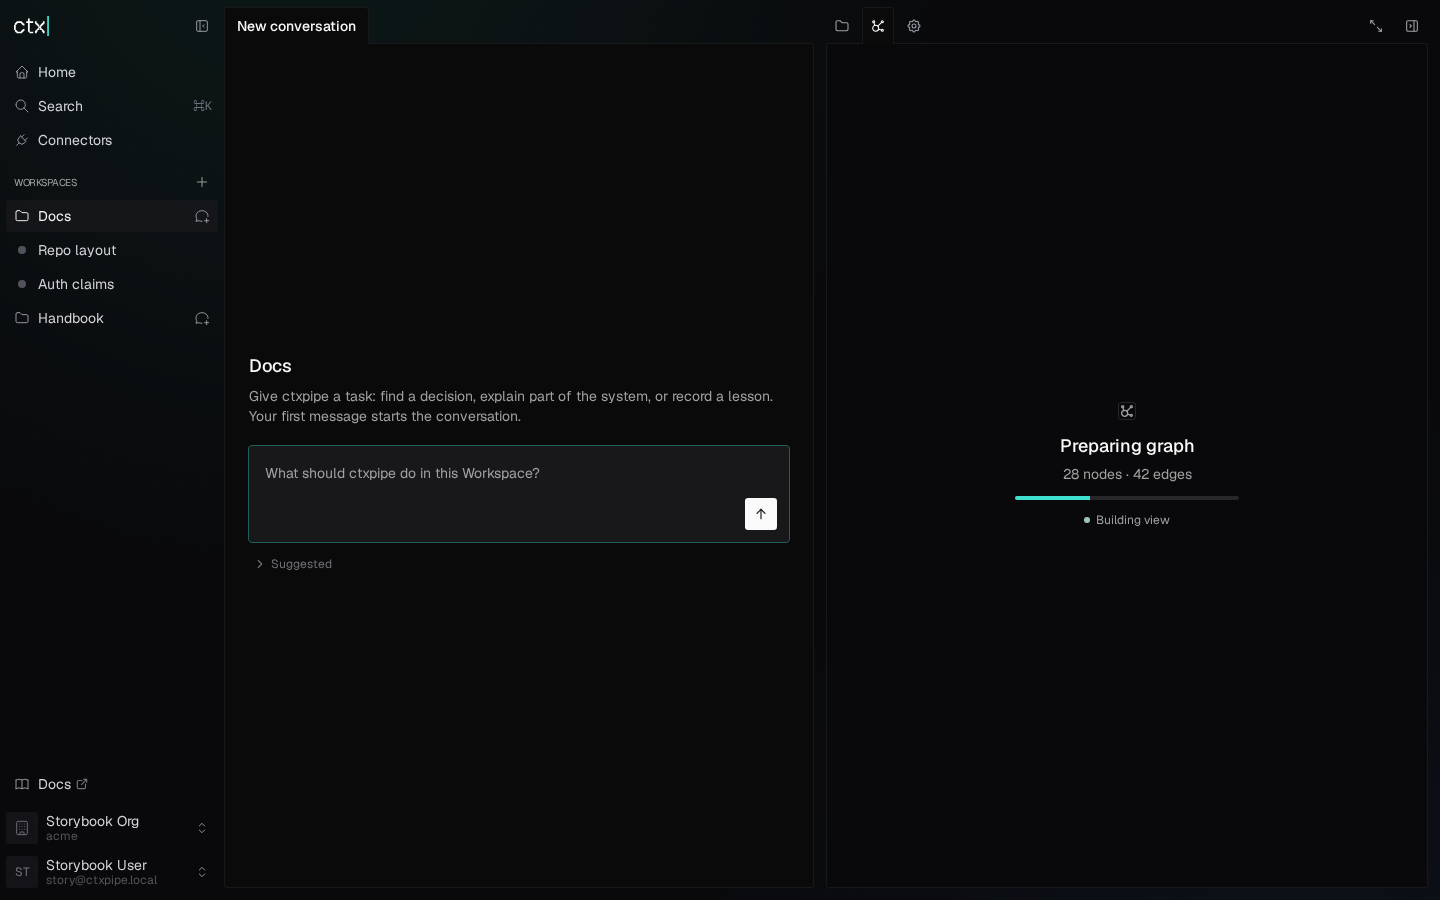
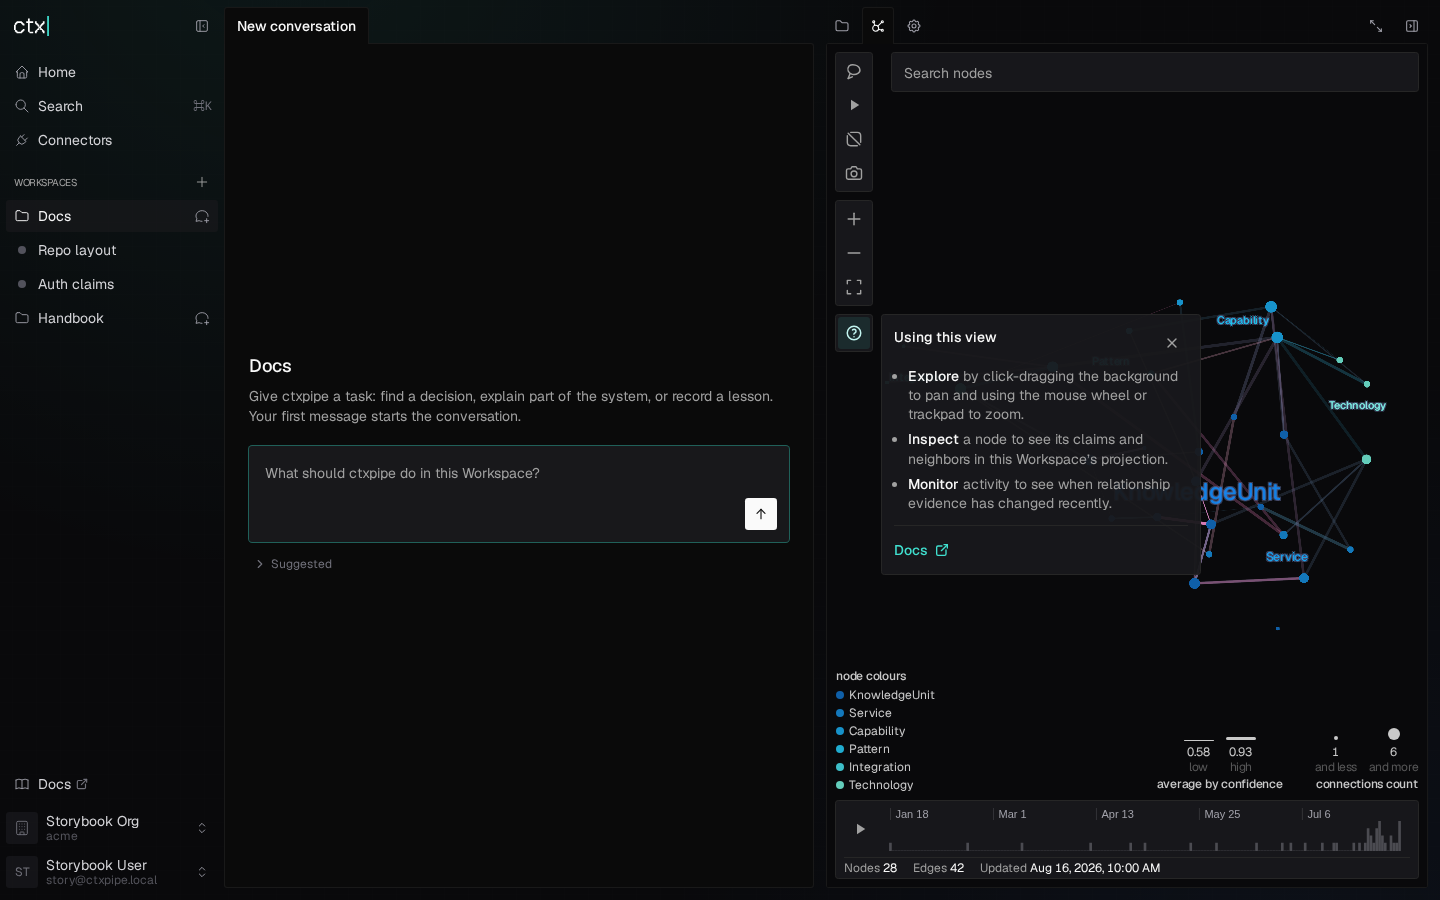
Fix the 2 screenshots that changed in CI: graph pane and failed list
- Workspaces GraphPane had no play, so the shot caught a loading stage
  of the graph that depended on the host speed. It gets the
  reduced-motion tag and waits for the stopped layout, as the pane graph
  story does.
- Home WorkspacesLoadFails: the side nav reads the same workspace list
  and kept its own error after the Retry on Home loaded the list. Its
  error boundary now resets when the list stops failing (a key from the
  query state). The play waits for the side nav list.
- The subscribe functions of useSyncExternalStore keep one identity, so
  React does not subscribe again on each render.

diff --git a/apps/ui/src/features/workspaces/WorkspaceNavList.tsx b/apps/ui/src/features/workspaces/WorkspaceNavList.tsx
@@ -1,10 +1,11 @@
 import { IconPlus, IconRefresh } from "@tabler/icons-react"
 import {
   QueryErrorResetBoundary,
+  useQueryClient,
   useSuspenseQuery,
 } from "@tanstack/react-query"
 import { useLocation } from "@tanstack/react-router"
-import { useRef, useState } from "react"
+import { useCallback, useRef, useState, useSyncExternalStore } from "react"
 
 import type { SideNavLocation } from "@/components/SideNav/sideNavLocation"
 import { SideNavRowSkeleton } from "@/components/SideNav/SideNavRowSkeleton"
@@ -25,13 +26,25 @@ export function WorkspaceNavList(props: {
   currentConversationId?: string
   onSelectNav: (next: SideNavLocation) => void
 }) {
+  const queryClient = useQueryClient()
+  const listQueryKey = workspaceListOptions(props.orgSlug).queryKey
+  const listFailed = () => {
+    const state = queryClient.getQueryState(listQueryKey)
+    return state?.status === "error" && state.data === undefined
+  }
+  const subscribe = useCallback(
+    (onChange: () => void) => queryClient.getQueryCache().subscribe(onChange),
+    [queryClient],
+  )
+  const failed = useSyncExternalStore(subscribe, listFailed, listFailed)
   return (
     <QueryErrorResetBoundary>
       {({ reset: resetQueries }) => (
-        // The key resets a failed state when the org changes: the layout
-        // stays mounted on an org switch.
+        // The key resets a failed state when the org changes (the layout
+        // stays mounted on an org switch), and when the list loads after a
+        // failure: Home reads the same list and has its own Retry.
         <WorkspaceQueryErrorBoundary
-          key={props.orgSlug}
+          key={`${props.orgSlug}:${failed}`}
           fallback={(_error, resetBoundary) => (
             <NavListError
               expanded={props.expanded}

diff --git a/apps/ui/src/features/workspaces/WorkspaceSurface.stories.tsx b/apps/ui/src/features/workspaces/WorkspaceSurface.stories.tsx
@@ -1545,6 +1545,10 @@ export const FilesPane: Story = {
 }
 
 export const GraphPane: Story = {
+  // With reduced motion the layout runs a fixed number of steps before the
+  // graph shows. The play waits for it: without the wait, the screenshot
+  // showed a loading stage of the graph that depended on the host speed.
+  tags: ["reduced-motion"],
   args: { paneParam: "graph" },
   parameters: {
     storyRoute: workspaceRoute({ pane: "graph" }),
@@ -1553,6 +1557,17 @@ export const GraphPane: Story = {
         page: workspaceShellHandlers(),
       },
     },
+  },
+  play: async ({ canvasElement }) => {
+    const page = within(canvasElement.ownerDocument.body)
+    // The graph shows when its layout has stopped. Then the control to
+    // play the layout again shows.
+    await page.findByRole(
+      "button",
+      { name: "Play layout" },
+      // The layout runs in WebGL, which is slow on a CPU renderer.
+      { timeout: 30_000 },
+    )
   },
 }
 

diff --git a/apps/ui/src/routes/-home.stories.tsx b/apps/ui/src/routes/-home.stories.tsx
@@ -207,6 +207,11 @@ export const WorkspacesLoadFails: Story = {
     listReadFails = false
     await userEvent.click(within(alert).getByRole("button", { name: "Retry" }))
     await waitFor(() => expect(canvas.queryByRole("alert")).toBeNull())
+    // The side nav reads the same list. The Retry on Home also clears the
+    // error of the side nav, when the side nav got the failure: its list
+    // shows again.
+    await canvas.findByLabelText("Add Workspace")
+    expect(canvas.queryByText("Could not load Workspaces.")).toBeNull()
   },
   parameters: {
     intent:

diff --git a/apps/ui/src/features/workspaces/WorkspaceSurface.tsx b/apps/ui/src/features/workspaces/WorkspaceSurface.tsx
@@ -355,8 +355,12 @@ function WorkspaceSurfaceSession(props: {
           conversationId,
         )?.trim()
       : undefined
+  const subscribe = useCallback(
+    (onChange: () => void) => queryClient.getQueryCache().subscribe(onChange),
+    [queryClient],
+  )
   const listedTitle = useSyncExternalStore(
-    (onChange) => queryClient.getQueryCache().subscribe(onChange),
+    subscribe,
     listedTitleSnapshot,
     listedTitleSnapshot,
   )
